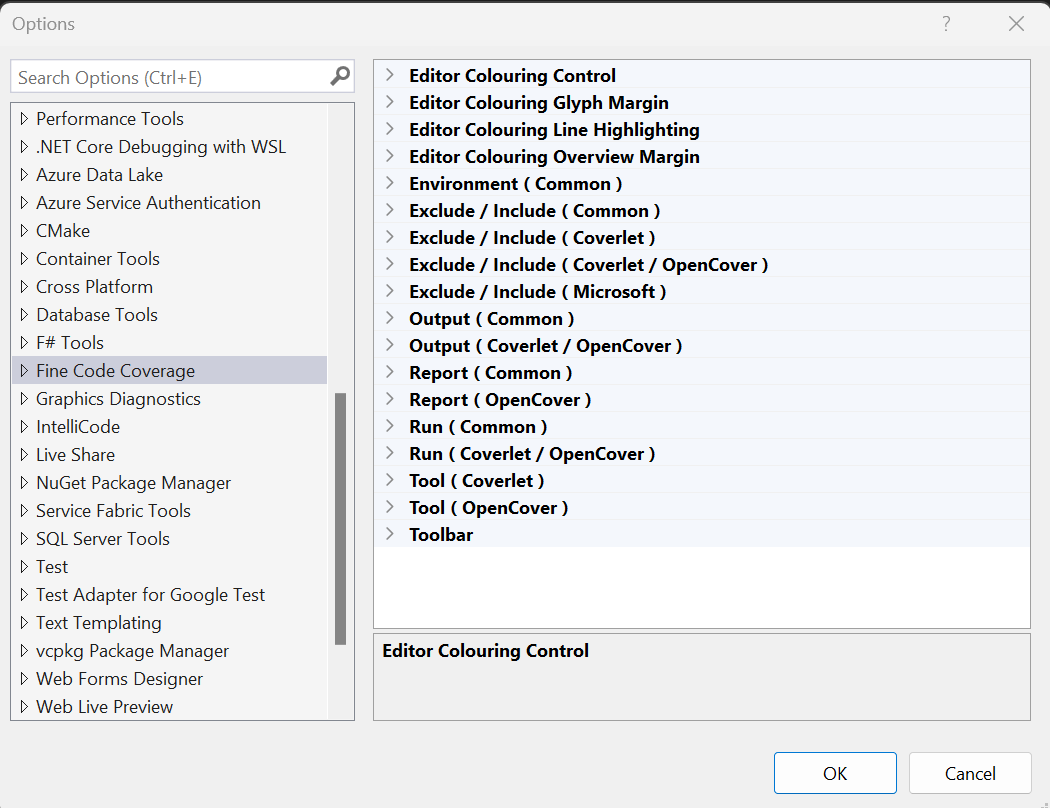
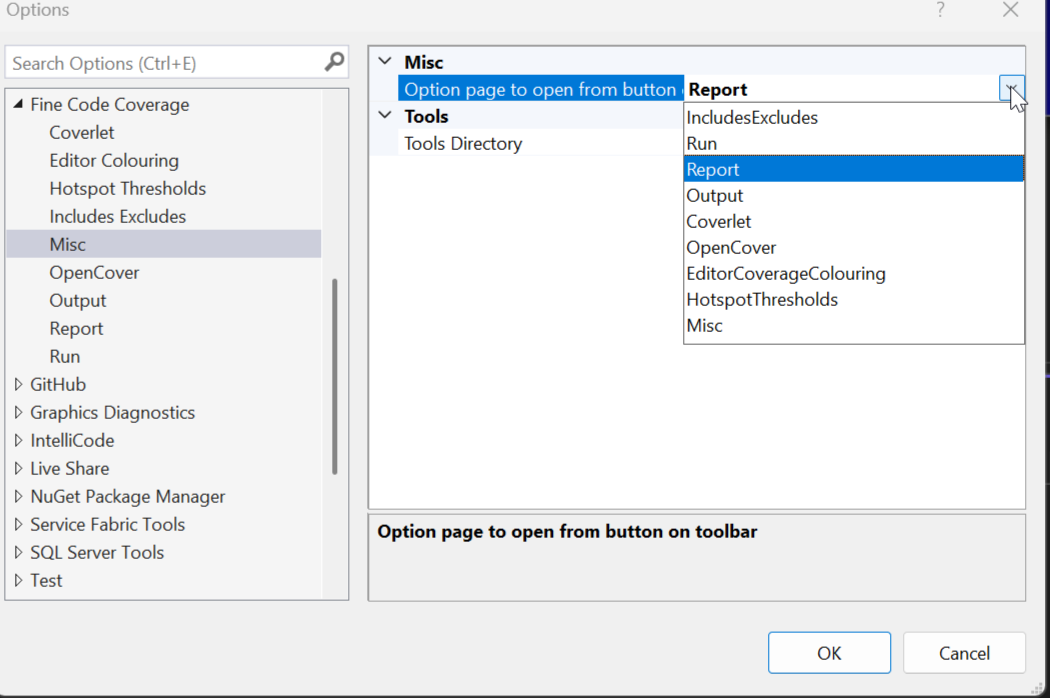
backup

Changed region(s): [[0.0, 0.0, 1.0, 1.0]]

diff --git a/SharedProject/Readme/ReadmeControl.xaml b/SharedProject/Readme/ReadmeControl.xaml
@@ -16,7 +16,6 @@
              >
     <FrameworkElement.CommandBindings>
         <CommandBinding Command="{x:Static markdig:Commands.Hyperlink}" Executed="OpenHyperlink" />
-        <CommandBinding Command="{x:Static markdig:Commands.Image}" Executed="ClickOnImage" />
     </FrameworkElement.CommandBindings>
     <UserControl.Resources>
          <!-- visual studio 2022 has a resource dictionary Source="/Microsoft.VisualStudio.Shell.UI.Internal;component/Common/Markdown/ThemedMarkdig.xaml" -->
@@ -167,6 +166,8 @@
                     <Binding RelativeSource="{RelativeSource Self}" Path="Source.(BitmapSource.PixelWidth)"/>
                 </Setter.Value>
             </Setter>
+            <Setter Property="ToolTip" 
+            Value="{Binding RelativeSource={RelativeSource Self}, Path=Tag}" />
         </Style>
         <Style x:Key="{x:Static local:MarkdownTypeMarker.Paragraph}"
          TargetType="{x:Type Paragraph}">

diff --git a/SharedProject/Readme/MarkdigWpfRenderers/LinkInlineRenderer.cs b/SharedProject/Readme/MarkdigWpfRenderers/LinkInlineRenderer.cs
@@ -6,6 +6,7 @@ using System.Windows.Documents;
 using System.Windows.Media.Imaging;
 using Markdig.Wpf;
 using System.IO;
+using System.Windows.Input;
 
 namespace FineCodeCoverage.Readme
 {
@@ -34,33 +35,42 @@ namespace FineCodeCoverage.Readme
             return url;
         }
 
+        private string GetUrl(LinkInline link)
+        {
+            var url = link.GetDynamicUrl != null ? link.GetDynamicUrl() ?? link.Url : link.Url;
+
+            return !Uri.IsWellFormedUriString(url, UriKind.RelativeOrAbsolute) ? "#" : EnsureAbsolute(url);
+        }
+
         protected override ElementAndMarker WriteAndReturn(WpfRenderer renderer, LinkInline link)
         {
             ElementAndMarker elementAndMarker = null;
             if (renderer == null) throw new ArgumentNullException(nameof(renderer));
             if (link == null) throw new ArgumentNullException(nameof(link));
 
-            var url = link.GetDynamicUrl != null ? link.GetDynamicUrl() ?? link.Url : link.Url;
+            var url = GetUrl(link);
 
-            if (!Uri.IsWellFormedUriString(url, UriKind.RelativeOrAbsolute))
-            {
-                url = "#";
-            }else
-            {
-                url = EnsureAbsolute(url);
-            }
 
             if (link.IsImage)
             {
+                string altText = (link.FirstChild as LiteralInline)?.Content.ToString() ?? string.Empty;
                 var image = new Image
                 {
                     Source = new BitmapImage(new Uri(url, UriKind.RelativeOrAbsolute)),
+                    Tag = altText
                 };
+                ICommand command = Commands.Image;
+                if (link.Parent is LinkInline urlLinkInline)
+                {
+                    command = Commands.Hyperlink;
+                    url = GetUrl(urlLinkInline);
+                }
+
                 var btn = new Button()
                 {
                     Content = image,
-                    Command = Commands.Image,
-                    CommandParameter = url
+                    Command = command,
+                    CommandParameter = url,
                 };
                 var inlineUIContainer = new InlineUIContainer(btn);
                 elementAndMarker = new ElementAndMarker(image, MarkdownTypeMarker.LinkInlineImage);

diff --git a/SharedProject/Readme/ReadMeMarkdownViewModel.cs b/SharedProject/Readme/ReadMeMarkdownViewModel.cs
@@ -43,39 +43,10 @@ namespace FineCodeCoverage.Readme
 
         public IReadOnlyList<ElementAndMarker> ElementAndMarkers { get; private set; }
 
-        #region clicks
-        #region link clicked
-        private static bool IsRelativePath(string url) => Uri.IsWellFormedUriString(url, UriKind.Relative);
 
         public void LinkClicked(string url)
         {
-            if (IsRelativePath(url))
-            {
-                url = "https://github.com/FortuneN/FineCodeCoverage/blob/master/" + url;
-            }
-
             this.process.Start(url);
         }
-        #endregion
-
-        #region image clicked
-        private static bool IsYoutubeImage(string url) => url.StartsWith("https://img.youtube.com");
-
-        public void ImageClicked(string url)
-        {
-            if (IsYoutubeImage(url))
-            {
-                this.process.Start(YoutubeImageToYoutubeVideo(url));
-            }
-        }
-
-        private static string YoutubeImageToYoutubeVideo(string url)
-        {
-            string[] segments = url.Split('/');
-            string videoId = segments[segments.Length - 2];
-            return $"https://youtu.be/{videoId}";
-        }
-        #endregion
-        #endregion
     }
 }

diff --git a/SharedProject/Readme/ReadmeControl.xaml.cs b/SharedProject/Readme/ReadmeControl.xaml.cs
@@ -60,8 +60,5 @@ namespace FineCodeCoverage.Readme
 
         private void OpenHyperlink(object sender, System.Windows.Input.ExecutedRoutedEventArgs e)
             => this.readMeMarkdownViewModel.LinkClicked(e.Parameter.ToString());
-
-        private void ClickOnImage(object sender, System.Windows.Input.ExecutedRoutedEventArgs e)
-            => this.readMeMarkdownViewModel.ImageClicked(e.Parameter.ToString());
     }
 }

diff --git a/SharedProject/Readme/IReadMeMarkdownViewModel.cs b/SharedProject/Readme/IReadMeMarkdownViewModel.cs
@@ -5,8 +5,6 @@ namespace FineCodeCoverage.Readme
 {
     public interface IReadMeMarkdownViewModel
     {
-        void ImageClicked(string url);
-
         void LinkClicked(string url);
         FlowDocument FlowDocument { get; }
         IReadOnlyList<ElementAndMarker> ElementAndMarkers { get; }

diff --git a/README-Template.md b/README-Template.md
@@ -1,6 +1,6 @@
 # Fine Code Coverage
 
-[![Highlights video](https://img.youtube.com/vi/CvrySUcTi7I/0.jpg)](https://youtu.be/CvrySUcTi7I)
+[![YouTube Highlights video](https://img.youtube.com/vi/CvrySUcTi7I/0.jpg)](https://youtu.be/CvrySUcTi7I)
 
 Download this extension from the [Visual Studio Market Place ( vs 2019 )](https://marketplace.visualstudio.com/items?itemName=FortuneNgwenya.FineCodeCoverage), [Visual Studio Market Place ( vs 2022 )](https://marketplace.visualstudio.com/items?itemName=FortuneNgwenya.FineCodeCoverage2022)
 or download from [releases](https://github.com/FortuneN/FineCodeCoverage/releases). Older versions can be obtained from [here](https://ci.appveyor.com/project/FortuneN/finecodecoverage/history).
@@ -193,6 +193,8 @@ Run a(some) unit test(s) and ...
 The hierarchy is as follows :
 
 a) Visual Studio options
+
+![Toolbar Open FCC Options](Art/Options-Toolbar.png)
 
 ![Global Options](Art/Options-Global.png)
 
@@ -397,5 +399,5 @@ used by this project.
 
 | Provider  |   Type    |                                                        Link                                                         |
 | :-------- | :-------: | :-----------------------------------------------------------------------------------------------------------------: |
-| Paypal    |   Once    | [<img src="https://www.paypalobjects.com/webstatic/mktg/Logo/pp-logo-100px.png">](https://paypal.me/FortuneNgwenya) |
-| Liberapay | Recurring |         [<img alt="Donate using Liberapay" src="Art/librepay.png">](https://liberapay.com/FortuneN/donate)          |
+| Paypal    |   Once    | [![Paypal donate](https://www.paypalobjects.com/webstatic/mktg/Logo/pp-logo-100px.png)](https://paypal.me/FortuneNgwenya)  |
+| Liberapay | Recurring | [![Liberapay donate](Art/librepay.png)](https://liberapay.com/FortuneN/donate)                                             |